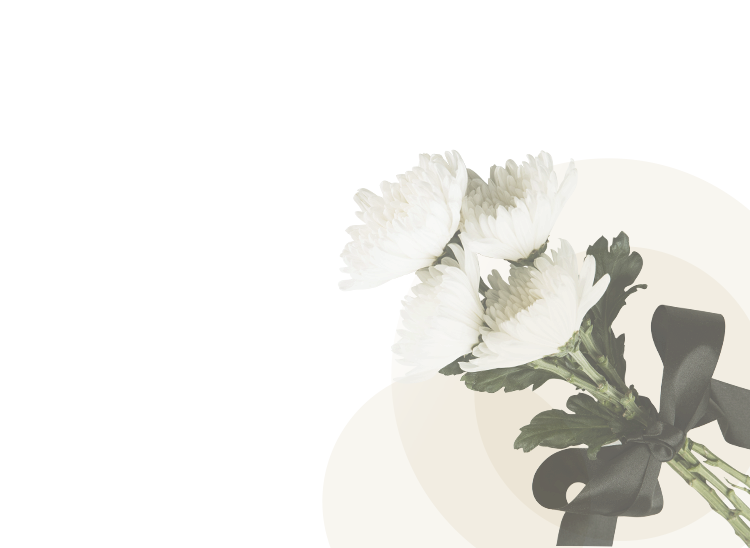
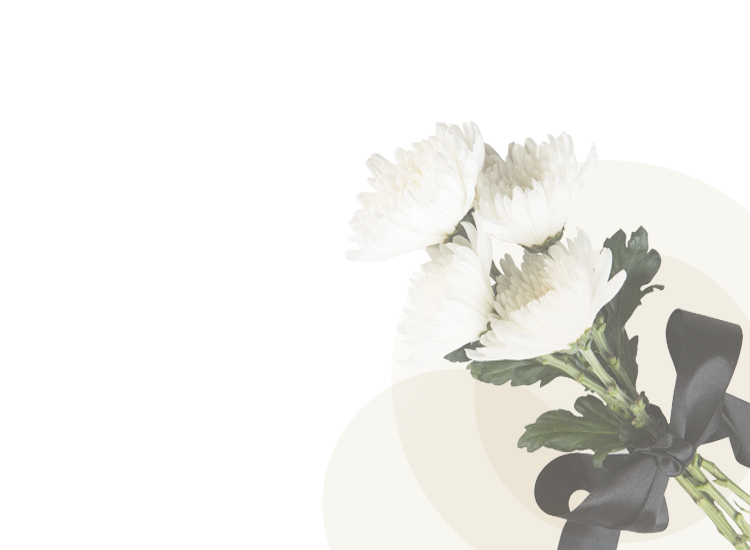
no message

Changed region(s): [[0.4907, 0.2172, 1.0, 1.0], [0.46, 0.4033, 0.4907, 0.4343], [0.46, 0.3412, 0.4907, 0.3723]]

diff --git a/skin/css/skin.css b/skin/css/skin.css
@@ -514,7 +514,13 @@ textarea::placeholder {
 }
 
 .main .header .fix-box {
-  background: #000;
+  background: no-repeat top center;
+  background-size: cover;
+  background-image: url("../images/black/bg-main.png");
+}
+
+.main .header.active .fix-box {
+  background: none;
 }
 
 .main .header .btn-back {
@@ -526,10 +532,13 @@ textarea::placeholder {
   position: fixed;
   top: 0;
   left: 0;
+  right: 0;
   width: 100%;
-  height: 65.2rem;
-  background: no-repeat center bottom;
-  background-size: contain;
+  max-width: 750px;
+  height: 100%;
+  margin: 0 auto;
+  background: no-repeat top center;
+  background-size: cover;
   background-image: url("../images/black/bg-main.png");
   content: "";
 }
@@ -637,7 +646,7 @@ textarea::placeholder {
 
 .view-box-wrap .view-box {
   position: absolute;
-  top: 60px;
+  top: 0;
   left: 0;
   right: 0;
   width: 100%;
@@ -773,7 +782,7 @@ textarea::placeholder {
   padding: 3.4rem 5.8rem;
   border: 1px solid #e5e5e5;
   border-radius: 10px;
-  box-shadow: .8rem 1.2rem 1.5rem 0 rgba(0, 0, 0, 0.1);
+  box-shadow: 8px 12px 15px 0 rgba(0, 0, 0, 0.1);
   text-align: center;
 }
 
@@ -1290,7 +1299,11 @@ div.input-row:last-child {
 }
 
 .white.main .header .fix-box {
-  background: #fff;
+  background-image: url("../images/white/bg-main.png");
+}
+
+.white.main .header.active .fix-box {
+  background: none;
 }
 
 .white.main .contents-wrap::before {

diff --git a/skin/gallery.html b/skin/gallery.html
@@ -84,11 +84,11 @@
             <button type="button" class="btn-vlarger">크게보기</button>
           </li>
           <li class="gallery-item">
-            <img src="/skin/images/gallery/gallery-default03.jpg" alt="" />
+            <img src="/skin/images/gallery/gallery-default04.jpg" alt="" />
             <button type="button" class="btn-vlarger">크게보기</button>
           </li>
           <li class="gallery-item">
-            <img src="/skin/images/gallery/gallery-default04.jpg" alt="" />
+            <img src="/skin/images/gallery/gallery-default03.jpg" alt="" />
             <button type="button" class="btn-vlarger">크게보기</button>
           </li>
         </ul>
